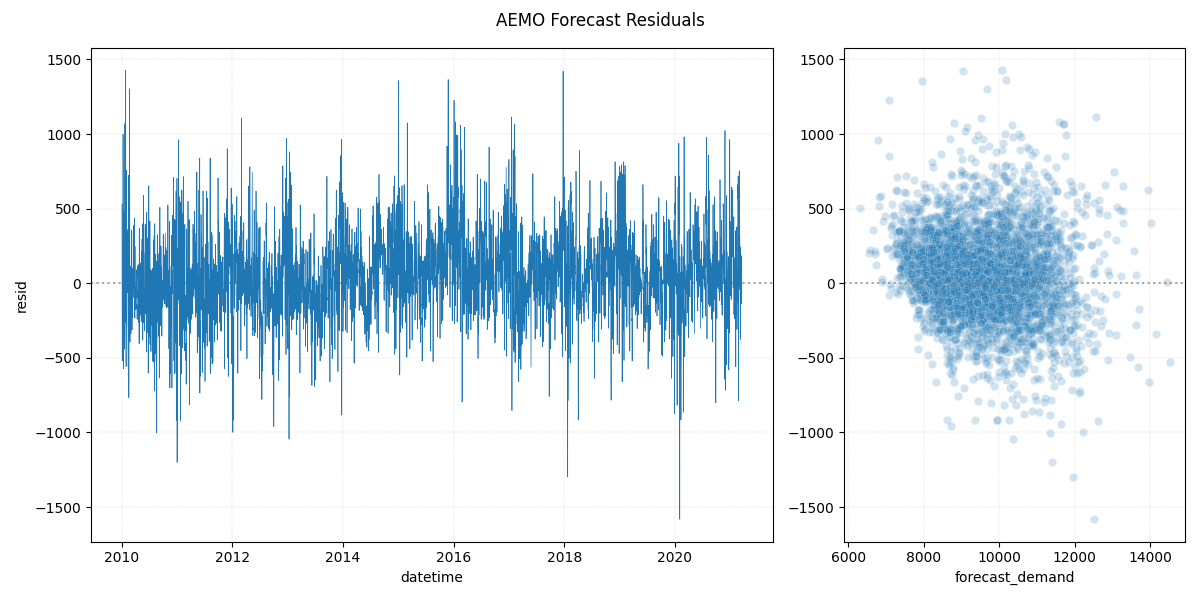
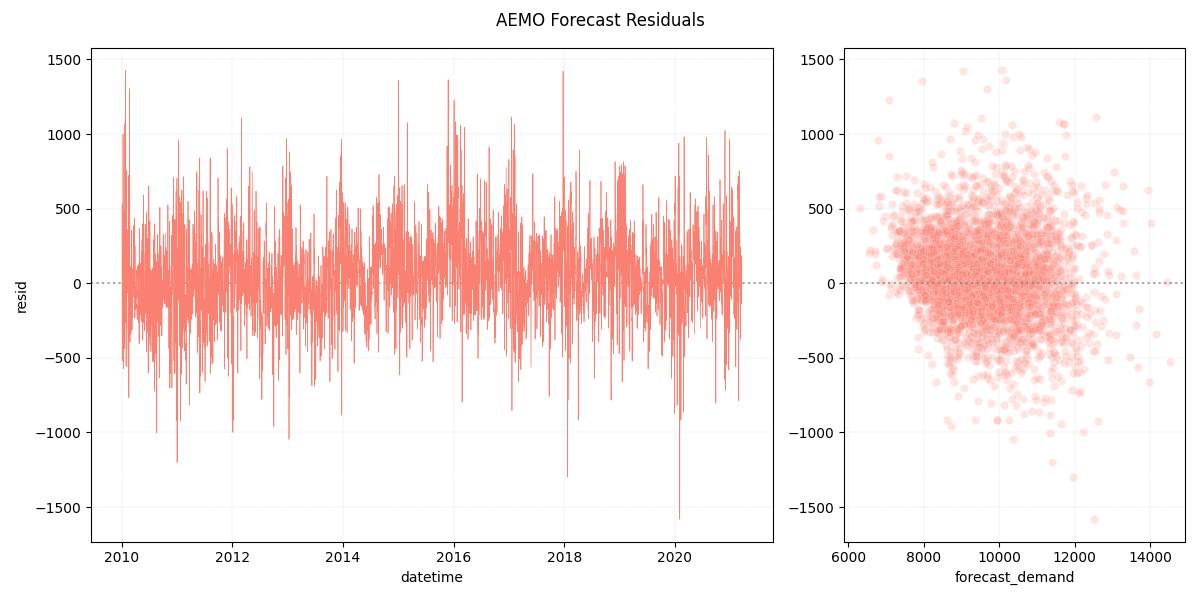
created colour dictionary for graphs

Changed region(s): [[0.0925, 0.18, 0.6167, 0.69], [0.7092, 0.21, 0.9558, 0.72], [0.8633, 0.18, 0.8942, 0.21]]

diff --git a/python/eda.py b/python/eda.py
@@ -4,12 +4,13 @@ import matplotlib.dates as mdates
 import seaborn as sns
 from pathlib import Path
 import sys
+from colour_dict import demand_cols as vc
 
-def scatterplot_matrix(df, img_folder, img_name):
+def scatterplot_matrix(df, img_folder, img_name, colour):
     """
     scatterplot matrix of all numerical variables in dataframe
     """
-    p = sns.pairplot(df, plot_kws={'alpha': 0.1, 's': 10})
+    p = sns.pairplot(df, plot_kws={'alpha': 0.1, 's': 10, 'color':colour})
     plt.subplots_adjust(bottom=0.1)
     plt.savefig(img_folder / img_name)
     plt.close()
@@ -43,8 +44,8 @@ def var_distributions(df, peak_df, img_folder):
     col_list = df.columns.tolist()[1:6]
     for col in col_list:
         col_idx = col_list.index(col)
-        sns.violinplot(df[col], ax=axs[0][col_idx], color='cadetblue')
-        sns.violinplot(peak_df[col], ax=axs[1][col_idx], color='palevioletred')
+        sns.violinplot(df[col], ax=axs[0][col_idx], color=vc['all'])
+        sns.violinplot(peak_df[col], ax=axs[1][col_idx], color=vc['peak'])
         ymin, ymax = axs[0][col_idx].get_ylim()
         axs[1][col_idx].set_ylim(ymin, ymax)
         axs[0][col_idx].set_title(col)
@@ -59,11 +60,10 @@ def var_distributions(df, peak_df, img_folder):
     plt.close()
 
     # histograms of numerical variables
-    col_list = df.columns.tolist()[1:6]
     for col in col_list:
         fig, axs = plt.subplots(1, 2, figsize=(8,5))
-        sns.histplot(df, x=col, ax=axs[0], color='cadetblue', bins=50)
-        sns.histplot(peak_df, x=col, ax=axs[1], color='palevioletred', bins=50)
+        sns.histplot(df, x=col, ax=axs[0], color=vc['all'], bins=50)
+        sns.histplot(peak_df, x=col, ax=axs[1], color=vc['peak'], bins=50)
         xmin, xmax = axs[0].get_xlim()
         axs[1].set_xlim(xmin, xmax)
         axs[1].set_ylabel('')
@@ -73,9 +73,24 @@ def var_distributions(df, peak_df, img_folder):
         plt.savefig(img_folder / img_name)
         plt.close()
 
+    for col in col_list:
+        fig, axs = plt.subplots(1, 2, figsize=(6,5), layout='constrained')
+        sns.boxplot(df, y=col, ax=axs[0], color=vc['all'])
+        sns.boxplot(peak_df, y=col, ax=axs[1], color=vc['peak'])
+        axs[0].grid(axis='y')
+        axs[1].grid(axis='y')
+        ymin, ymax = axs[0].get_ylim()
+        axs[1].set_ylim(ymin, ymax)
+        axs[1].tick_params(axis='y', which='both', left=False, labelleft=False)
+        axs[0].set_title('All Demand')
+        axs[1].set_title('Peak Demand')
+        img_name = col + '_boxplot'
+        plt.savefig(img_folder / img_name)
+        plt.close()
+
     # histogram showing time of peak demand
     peak_df['hour_float'] = peak_df['datetime'].dt.hour + peak_df['datetime'].dt.minute / 60
-    sns.histplot(peak_df, x='hour_float', bins=48)
+    sns.histplot(peak_df, x='hour_float', bins=48, color=vc['peak'])
     plt.xticks(range(0, 24, 1))  # show every 2 hours
     plt.xlabel('Hour')
     plt.title('Time Frequency of Peak Demand')
@@ -89,11 +104,26 @@ def demand_time(df, img_folder):
     """
     jan_1 = df[(df['date'].dt.month == 1) & (df['date'].dt.day == 1)]['date']
     plt.figure(figsize=(12, 5))
-    sns.lineplot(df, x='date', y='total_demand', lw=1, errorbar=None)
+    sns.lineplot(df, x='date', y='total_demand', lw=1, errorbar=None, color='palevioletred')
     for l in jan_1:
         plt.axvline(x=l, color='lightgrey', linestyle='--', lw=0.5, zorder=1)
     plt.title('Peak Demand')
     plt.savefig(img_folder / 'peak_demand_time')
+    plt.close()
+
+def demand_time_all(df, peak_df, img_folder):
+    """
+    plot all demand measurements over time
+    """
+    jan_1 = df[(df['date'].dt.month == 1) & (df['date'].dt.day == 1)]['date']
+    plt.figure(figsize=(12, 5))
+    axs = sns.lineplot(df, x='date', y='total_demand', lw=1, errorbar=None, color=vc['all'], zorder=2, label='Power Demand')
+    sns.lineplot(peak_df, x='date', y='total_demand', lw=1, errorbar=None, color=vc['peak'], zorder=3, ax=axs, label='Peak Demand')
+    for l in jan_1:
+        plt.axvline(x=l, color='lightgrey', linestyle='--', lw=0.5, zorder=1)
+    plt.title('Demand')
+    axs.legend()
+    plt.savefig(img_folder / 'demand_time')
     plt.close()
 
 
@@ -102,8 +132,9 @@ def avg_stats_across_years(d_frame, var, axs, ylab, xlab=False):
     calculate aggregated statistics for each day across all years for the specified variable
     plot statistics on specified axis
     """
+    stats_colours = {'mean': vc['var4'], 'min': vc['var3'], 'max': vc['var5']}
     daily_stats = d_frame.groupby(['month', 'day'])[var].agg(['mean', 'min', 'max']).reset_index()
-    daily_stats['date'] = pd.to_datetime('2012' + '-' +daily_stats['month'].astype(str) + '-' + daily_stats['day'].astype(str), format='%Y-%m-%d')
+    daily_stats['date'] = pd.to_datetime('2012' + '-' + daily_stats['month'].astype(str) + '-' + daily_stats['day'].astype(str), format='%Y-%m-%d')
     daily_stats = pd.melt(daily_stats, id_vars=['date'], value_vars=['mean', 'min', 'max'], var_name='statistic')
     sns.lineplot(daily_stats, x='date', y='value', hue='statistic', ax=axs)
     axs.set_xlim(daily_stats['date'].min(), daily_stats['date'].max()) 
@@ -157,8 +188,8 @@ def aemo_forecast(forecast, img_folder):
     forecast['datetime'] = pd.to_datetime(forecast['datetime'])
     forecast['forecast_datetime'] = pd.to_datetime(forecast['forecast_datetime'])
     forecast['resid'] = forecast['total_demand'] - forecast['forecast_demand']
-    sns.lineplot(forecast, x='datetime', y='resid', ax=axs[0], linewidth=0.5)
-    sns.scatterplot(forecast, x='forecast_demand', y='resid', ax=axs[1], alpha=0.2)
+    sns.lineplot(forecast, x='datetime', y='resid', ax=axs[0], linewidth=0.5, color=vc['var2'])
+    sns.scatterplot(forecast, x='forecast_demand', y='resid', ax=axs[1], alpha=0.2, color=vc['var2'])
     axs[1].set_ylabel('')
     plt.suptitle('AEMO Forecast Residuals')
     for ax in axs:
@@ -192,16 +223,32 @@ peak_demand_df = demand_df.loc[max_idx].reset_index(drop=True)
 forecast_demand_df = pd.read_csv(data_folder / 'peak_forecasts.csv')
 
 # explore relationships between variables
-scatterplot_matrix(demand_df, img_folder, 'demand_var_comparison')
-scatterplot_matrix(peak_demand_df, img_folder, 'peak_demand_var_comparison')
+scatterplot_matrix(demand_df, img_folder, 'demand_var_comparison', vc['all'])
+scatterplot_matrix(peak_demand_df, img_folder, 'peak_demand_var_comparison', vc['peak'])
 corr_matrix (demand_df, peak_demand_df, img_folder)
 
 # explore variable distributions
 var_distributions(demand_df, peak_demand_df, img_folder)
 
 # explore temporal distributions
-demand_time(peak_demand_df, img_folder)
+#demand_time(peak_demand_df, img_folder)
+demand_time_all(demand_df, peak_demand_df, img_folder)
 daily_stats(demand_df, peak_demand_df, img_folder)
 
 # plot AEMO forecast distributions
 aemo_forecast(forecast_demand_df, img_folder)
+
+
+def statistic_reports(df, peak_df, col):
+    print('All Demand:')
+    print(df[col].describe())
+    print(df[col].skew())
+    print(df[col].kurt())
+    print('\nPeak Demand:')
+    print(peak_df[col].describe())
+    print(peak_df[col].skew())
+    print(peak_df[col].kurt())
+
+
+statistic_reports(demand_df, peak_demand_df, 'pv_capacity')
+

diff --git a/python/colour_dict.py b/python/colour_dict.py
@@ -1,0 +1,6 @@
+
+
+demand_cols = {'peak': 'orange', 'all': 'tomato', 
+                'var1': 'darksalmon', 'var2': 'salmon', 
+                'var3': 'peru', 'var4': 'sienna', 'var5': 'brown', }
+
